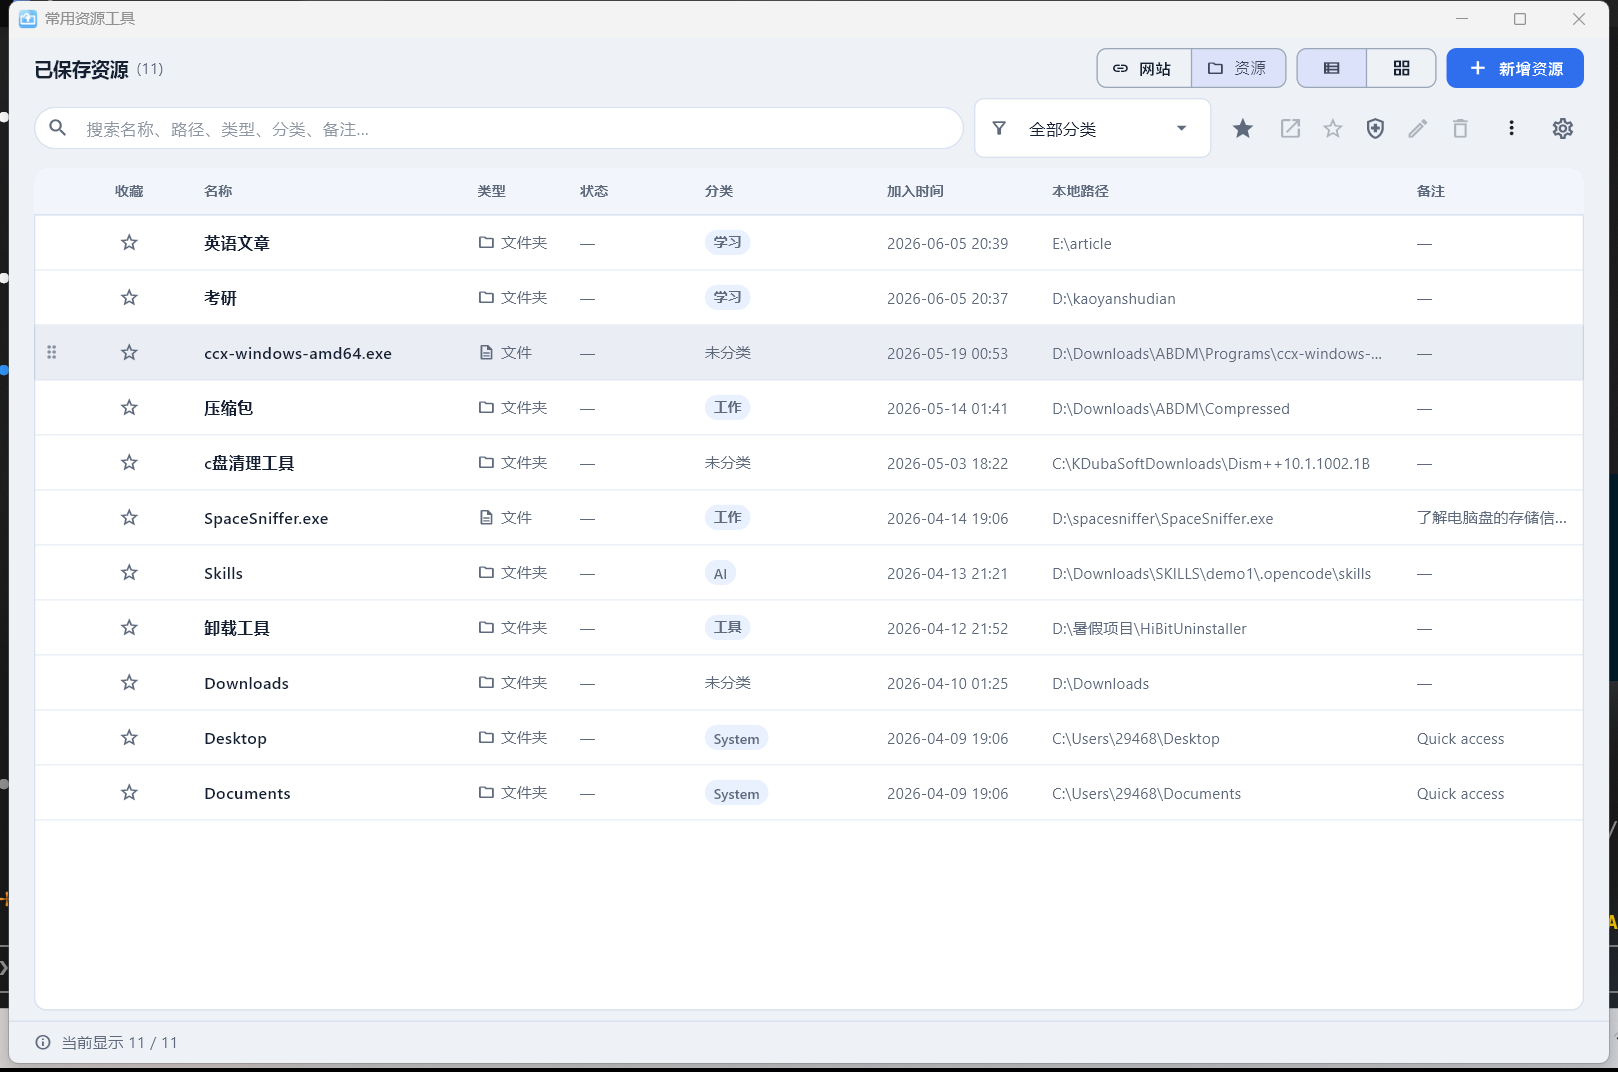
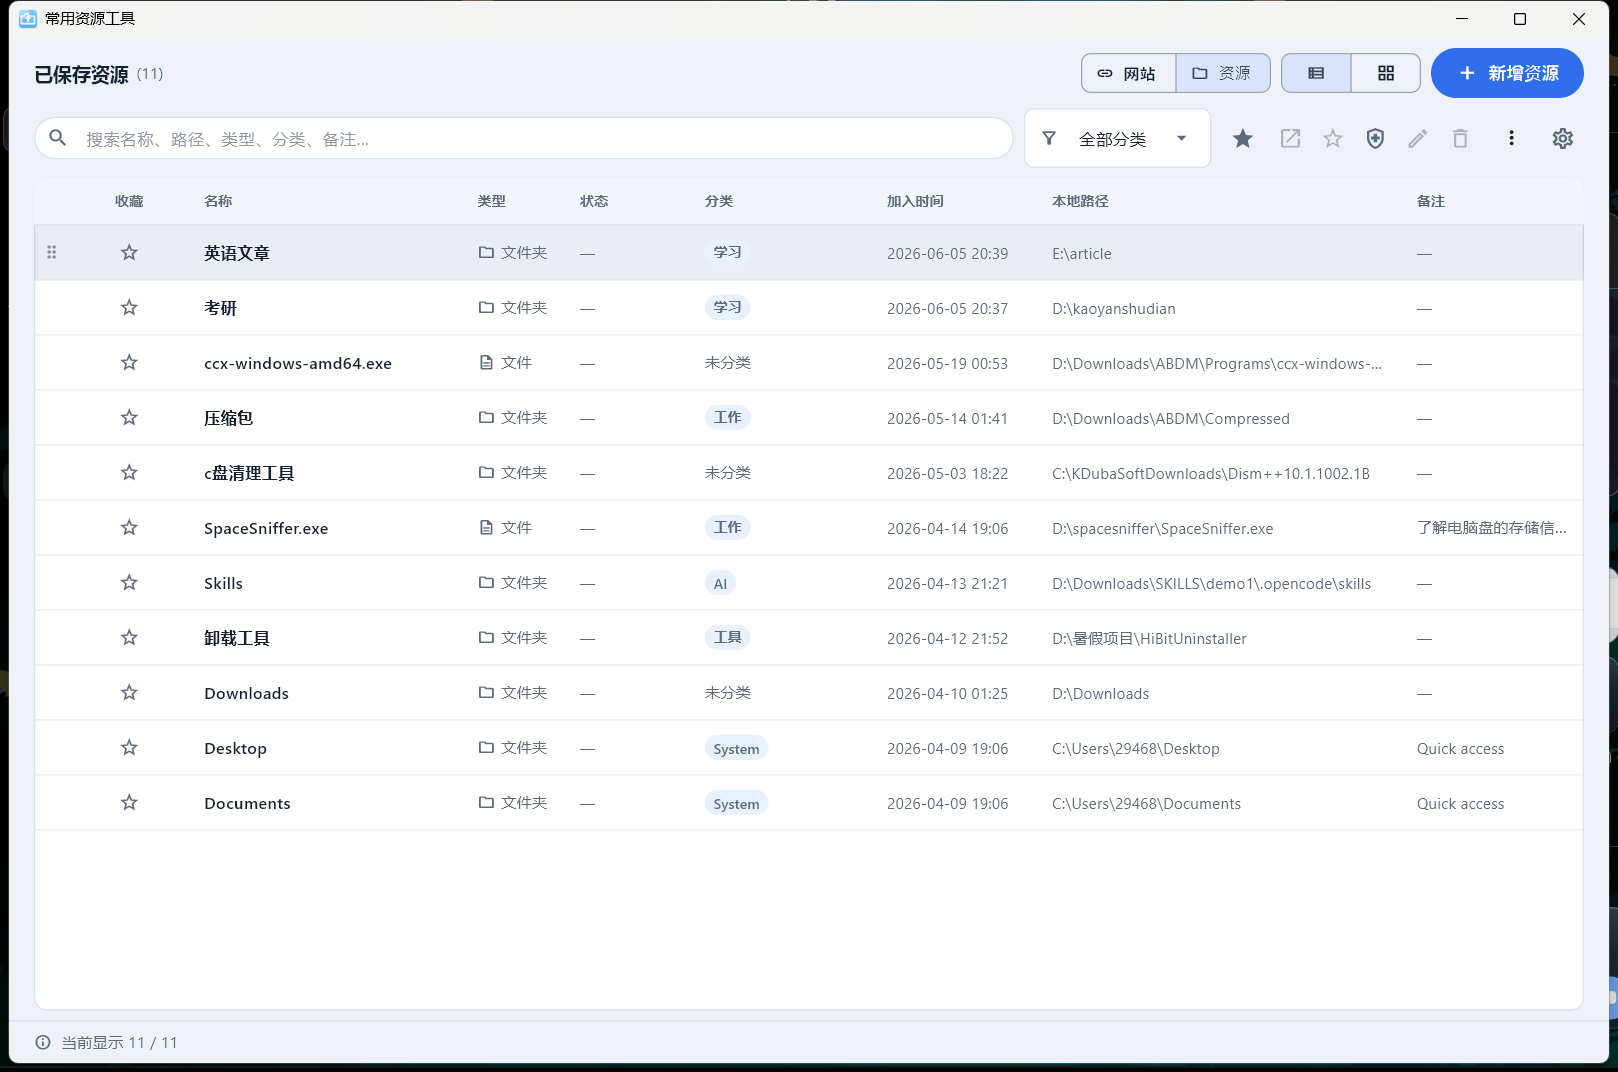
style: polish the add button and shrink the category filter
The primary add button used a 13px label in a squat 8px-radius shape and read as
cramped/blurry at 125% Windows scaling. Rebuild the shared filledButtonTheme to
the Material 3 spec: 40px height, StadiumBorder, 20px side padding, 18px icon,
14px w600 label (height 1.2, letterSpacing 0.1) and standard density. This also
upgrades the dialog save buttons consistently.

The category DropdownMenu width goes from 190 to 150 so the funnel icon, label
and trailing arrow fit without the dead space, giving the search field 40px
more room. Docs: phase12-controls-polish.md, README/memory updates and a new
real-device screenshot. Tests: Flutter 50/50; shell QA 9/9.

diff --git a/app/lib/design/app_theme.dart b/app/lib/design/app_theme.dart
@@ -341,18 +341,27 @@ abstract final class AppTheme {
   }
 
   static ButtonStyle _filledStyle(ColorScheme scheme) {
+    // Material 3 filled button: 40px tall, fully rounded (stadium), 20px side
+    // padding, 18px icon, 14px medium label. The previous 13px + 8px radius +
+    // compact density made the Chinese label look cramped and slightly blurry
+    // white-on-blue, especially at 125% Windows scaling.
     return ButtonStyle(
       minimumSize: const WidgetStatePropertyAll<Size>(
-        Size(0, AppSizes.controlHeight),
+        Size(64, AppSizes.controlHeight),
       ),
       padding: const WidgetStatePropertyAll<EdgeInsetsGeometry>(
-        EdgeInsets.symmetric(horizontal: AppSpacing.lg),
+        EdgeInsets.symmetric(horizontal: AppSpacing.xl),
       ),
-      shape: const WidgetStatePropertyAll<OutlinedBorder>(
-        RoundedRectangleBorder(borderRadius: AppRadius.smAll),
-      ),
+      iconSize: const WidgetStatePropertyAll<double>(18),
+      visualDensity: VisualDensity.standard,
+      shape: const WidgetStatePropertyAll<OutlinedBorder>(StadiumBorder()),
       textStyle: WidgetStatePropertyAll<TextStyle?>(
-        TextStyle(fontSize: 13, fontWeight: FontWeight.w600),
+        const TextStyle(
+          fontSize: 14,
+          fontWeight: FontWeight.w600,
+          height: 1.2,
+          letterSpacing: 0.1,
+        ),
       ),
     );
   }

diff --git a/app/lib/features/home/resource_list_panel.dart b/app/lib/features/home/resource_list_panel.dart
@@ -249,7 +249,7 @@ class ResourceListPanel extends StatelessWidget {
               AppCategoryDropdown(
                 value: categoryFilter,
                 items: filterEntries,
-                width: 190,
+                width: 150,
                 leadingIcon: Icons.filter_alt_outlined,
                 labelBuilder: (String value) => switch (value) {
                   kAllCategories => t.t('all_categories'),

diff --git a/migration/phase12-controls-polish.md b/migration/phase12-controls-polish.md
@@ -1,0 +1,50 @@
+# Phase 12 — 控件打磨（新增资源按钮 + 分类筛选宽度）
+
+- 日期：2026-10-18
+- 触发：用户截图反馈「新增资源按钮没有做好，字体都不清晰，请参考谷歌组件重新做」「全部分类按钮太宽了」
+- 范围：只改控件样式/尺寸，不动业务逻辑
+
+---
+
+## 1. 新增资源按钮（Material 3 Filled Button）
+
+原实现是 `FilledButton.icon` + 主题里的 `13px / w600 / 8px 圆角 / 16px 横向 padding`，
+在 125% Windows 缩放下中文白字显得挤、发虚，也不像标准 M3 按钮。
+
+改为按 Material 3 filled button 规格重做（`app/lib/design/app_theme.dart` 的 `_filledStyle`）：
+
+| 属性 | 新值 | 说明 |
+|---|---|---|
+| 高度 | `40` | M3 默认按钮高度（`minimumSize: Size(64, 40)`） |
+| 圆角 | `StadiumBorder` | M3 全圆角（之前的 8px 圆角偏 Tk 风格） |
+| 横向 padding | `20` | 图标与文字不再拥挤 |
+| 字号 / 字重 | `14 / w600`，`height 1.2`，`letterSpacing 0.1` | 中文标签更清晰（原 13px） |
+| 图标 | `18px` | 与 14px 标签比例正确 |
+| density | `VisualDensity.standard` | 不再被 compact 压缩 |
+
+该样式对所有 `FilledButton` 生效，包括对话框里的「保存」按钮，视觉统一。
+按钮文字仍是 `form_add_folder`（新增资源）/ `form_add_link`（新增网站），只改样式。
+
+## 2. 分类筛选宽度
+
+`AppCategoryDropdown` 是 M3 `DropdownMenu`（`width` 必须显式给，否则会按最宽项撑开）。
+工作区里的宽度从 **190 → 150**：图标 +「全部分类」+ 箭头刚好放下，长分类名仍会省略号截断，
+搜索框因此多出 40px 宽度。
+
+## 3. 验证
+
+| 项 | 结果 |
+|---|---|
+| `flutter analyze` | 0 issue |
+| Flutter 测试 | **50 / 50**（无功能/文案变化，现有布局测试覆盖最小窗口 1180×760） |
+| 实机 | 新按钮为 M3 全圆角、字号更大更清晰；分类筛选明显变窄（`phase12-controls.png`） |
+| `verify_shell.py` | 9/9 PASS |
+| 发布包 | 47.9 MB，合并进 `release\ResourceHub-Desktop-20261017-1835\`，用户数据未变 |
+
+截图：`phase12-controls.png`。
+
+## 4. 说明
+
+- 字体仍然使用 `Microsoft YaHei UI`（系统字体），字号加大到 14px + `w600` 后中文渲染明显更实；
+  没有引入第三方字体，保持零依赖。
+- 如果还觉得按钮偏大/偏小，可以再调 `_filledStyle` 的 `minimumSize` 与字号，或只给「新增资源」单独覆写样式。

diff --git a/migration/README.md b/migration/README.md
@@ -17,6 +17,7 @@
 | [`phase9-folder-preview.md`](phase9-folder-preview.md) | 右侧详情面板：文件夹 mind map、懒加载展开、缩放/平移、添加为资源 |
 | [`phase10-no-top-bar.md`](phase10-no-top-bar.md) | 删除内容区 56px 顶部栏，设置入口移到工作区工具栏 |
 | [`phase11-toolbar-cleanup.md`](phase11-toolbar-cleanup.md) | 工具栏精简：导出/导入移入「更多」菜单 |
+| [`phase12-controls-polish.md`](phase12-controls-polish.md) | 新增资源按钮按 M3 重做、分类筛选收窄 |
 | [`adr/ADR-001-tray-hotkey-ownership.md`](adr/ADR-001-tray-hotkey-ownership.md) | 托盘/热键归属、导入导出入口、数据覆盖风险 |
 | [`adr/ADR-002-native-shell-ownership.md`](adr/ADR-002-native-shell-ownership.md) | Windows 壳层归属（runner vs 后端） |
 
